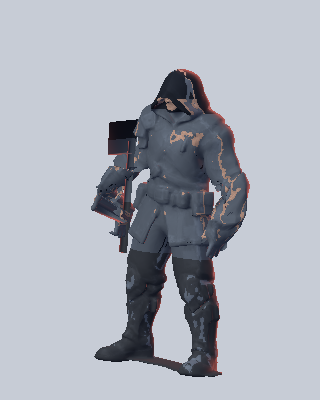
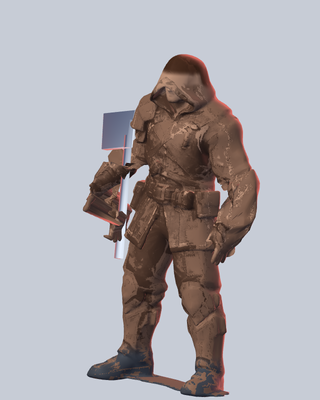
棋盘棋子 P1：立绘调色软分级 + 清洗贴图 + 2× 超采样（脸/锯齿/配色 #310）
- tools/art/board_albedo_clean.py：烘焙图集去黑边外扩、未填充键色→素布，消除 mip 色块
- board_figure.gdshader grade_mode：头部几何正面=脸、顶后=发；衣物亮度软映射 coat_dark→coat；保留五官明暗
- 武器网格固定 blade 槽；山贼按 bandit.webp 改棕色兜帽外套
- 桌面 3D 层 2× 双线性 SSAA；审图卡 2×+MSAA4+Lanczos；captain/hunter/bandit 立绘对照卡
- 设计文档记录 0 贴图规则偏离

Changed region(s): [[0.25, 0.12, 0.8125, 1.0]]

diff --git a/tools/art/board_albedo_clean.py b/tools/art/board_albedo_clean.py
@@ -1,0 +1,46 @@
+#!/usr/bin/env python3
+"""Board-figure albedo clean (#310 P1).
+
+The v87 baked atlases have (a) pure-black padding between UV islands and
+(b) a flat "unfilled" key colour inside islands (blue #2C3C5A on cast/outfit,
+brick #683028 on enemy). Sampled with mipmaps on a 60-px board figure both
+bleed into hard dark/blue blotches and jagged seams.
+
+Output <stem>__albedo_board.png:
+  * unfilled key pixels -> neutral mid grey (alpha=0 marks "plain cloth" for the
+    shader so it takes the portrait coat colour with lighting only);
+  * black padding dilated from nearest island texel (no black bleed in mips).
+"""
+import sys, glob, os
+import numpy as np
+from PIL import Image
+from scipy import ndimage
+
+KEYS = [(44, 60, 90), (104, 50, 40)]
+
+def clean(path):
+    a = np.asarray(Image.open(path).convert("RGB")).astype(np.int32)
+    pad = a.max(axis=2) < 14
+    key = np.zeros(pad.shape, bool)
+    for k in KEYS:
+        key |= (np.abs(a - np.array(k)).sum(axis=2) < 34)
+    out = a.copy().astype(np.float32)
+    alpha = np.full(pad.shape, 255, np.uint8)
+    out[key] = 128.0
+    alpha[key] = 0
+    # dilate: copy nearest non-pad texel into padding
+    idx = ndimage.distance_transform_edt(pad, return_distances=False, return_indices=True)
+    out = out[idx[0], idx[1]]
+    alpha = alpha[idx[0], idx[1]]
+    img = np.dstack([np.clip(out, 0, 255).astype(np.uint8), alpha])
+    dst = path.replace("__albedo_v87.jpg", "__albedo_board.png")
+    Image.fromarray(img, "RGBA").save(dst, optimize=True)
+    print(dst, f"key={key.mean():.2f} pad={pad.mean():.2f}")
+
+if __name__ == "__main__":
+    pats = sys.argv[1:] or ["project/assets/models/units/cast_*__albedo_v87.jpg",
+        "project/assets/models/units/enemy_*__albedo_v87.jpg",
+        "project/assets/models/units/outfit_*__albedo_v87.jpg"]
+    for p in pats:
+        for f in sorted(glob.glob(p)):
+            clean(f)

diff --git a/docs/design/pawn-redesign-opus.md b/docs/design/pawn-redesign-opus.md
@@ -702,3 +702,9 @@ void fragment() {
 - 渲染环境：Xvfb 加 `--rendering-driver opengl3`。桌面 1280×720；手机用 `CK_FORCE_MOBILE=1`、2400×1080，Xvfb 屏幕开到 2600×1700，否则窗口会被限制在屏幕尺寸内。
 - 指标：Python（PIL 加 numpy）对 1× 渲染计算，定义见 §4.1。
 - 图 7 中排是第 1 版 board_mini 的原型渲染，保留作对照。
+
+### #310 P1 偏离记录（0 贴图规则）
+- 棋盘棋子现直接使用演出 UnitModel 的烘焙 albedo 清洗版 `units/*__albedo_board.png`（`tools/art/board_albedo_clean.py`：去掉 UV 间黑边并外扩、把“未填充”键色标为 alpha=0 素布）。这偏离 §0-texture 规则：每个棋子 1 张已存在的模型贴图，不新增立绘投影贴花。
+- 理由：用户三次否决“脸不像/糊+锯齿/配色不对”。纯色槽无法保留五官与衣褶；硬阈值分槽在 mip 上产生锯齿色块。现改为 `grade_mode`：贴图只提供明暗细节，颜色仍全部来自立绘采样调色槽（头部按几何正面=脸、顶/后=发；衣物按亮度在 coat_dark→coat 之间软过渡）。
+- 抗锯齿：桌面 3D 层 2× 双线性超采样（不用 MSAA，避免透明层半透明鬼影）；审图卡 2× 渲染 + MSAA4 + Lanczos 缩小。
+- 山贼：按 `art/portraits/bandit.webp` 采用棕色兜帽/外套（色相≈20°，在友军色域外），红色边光保持阵营识别。
